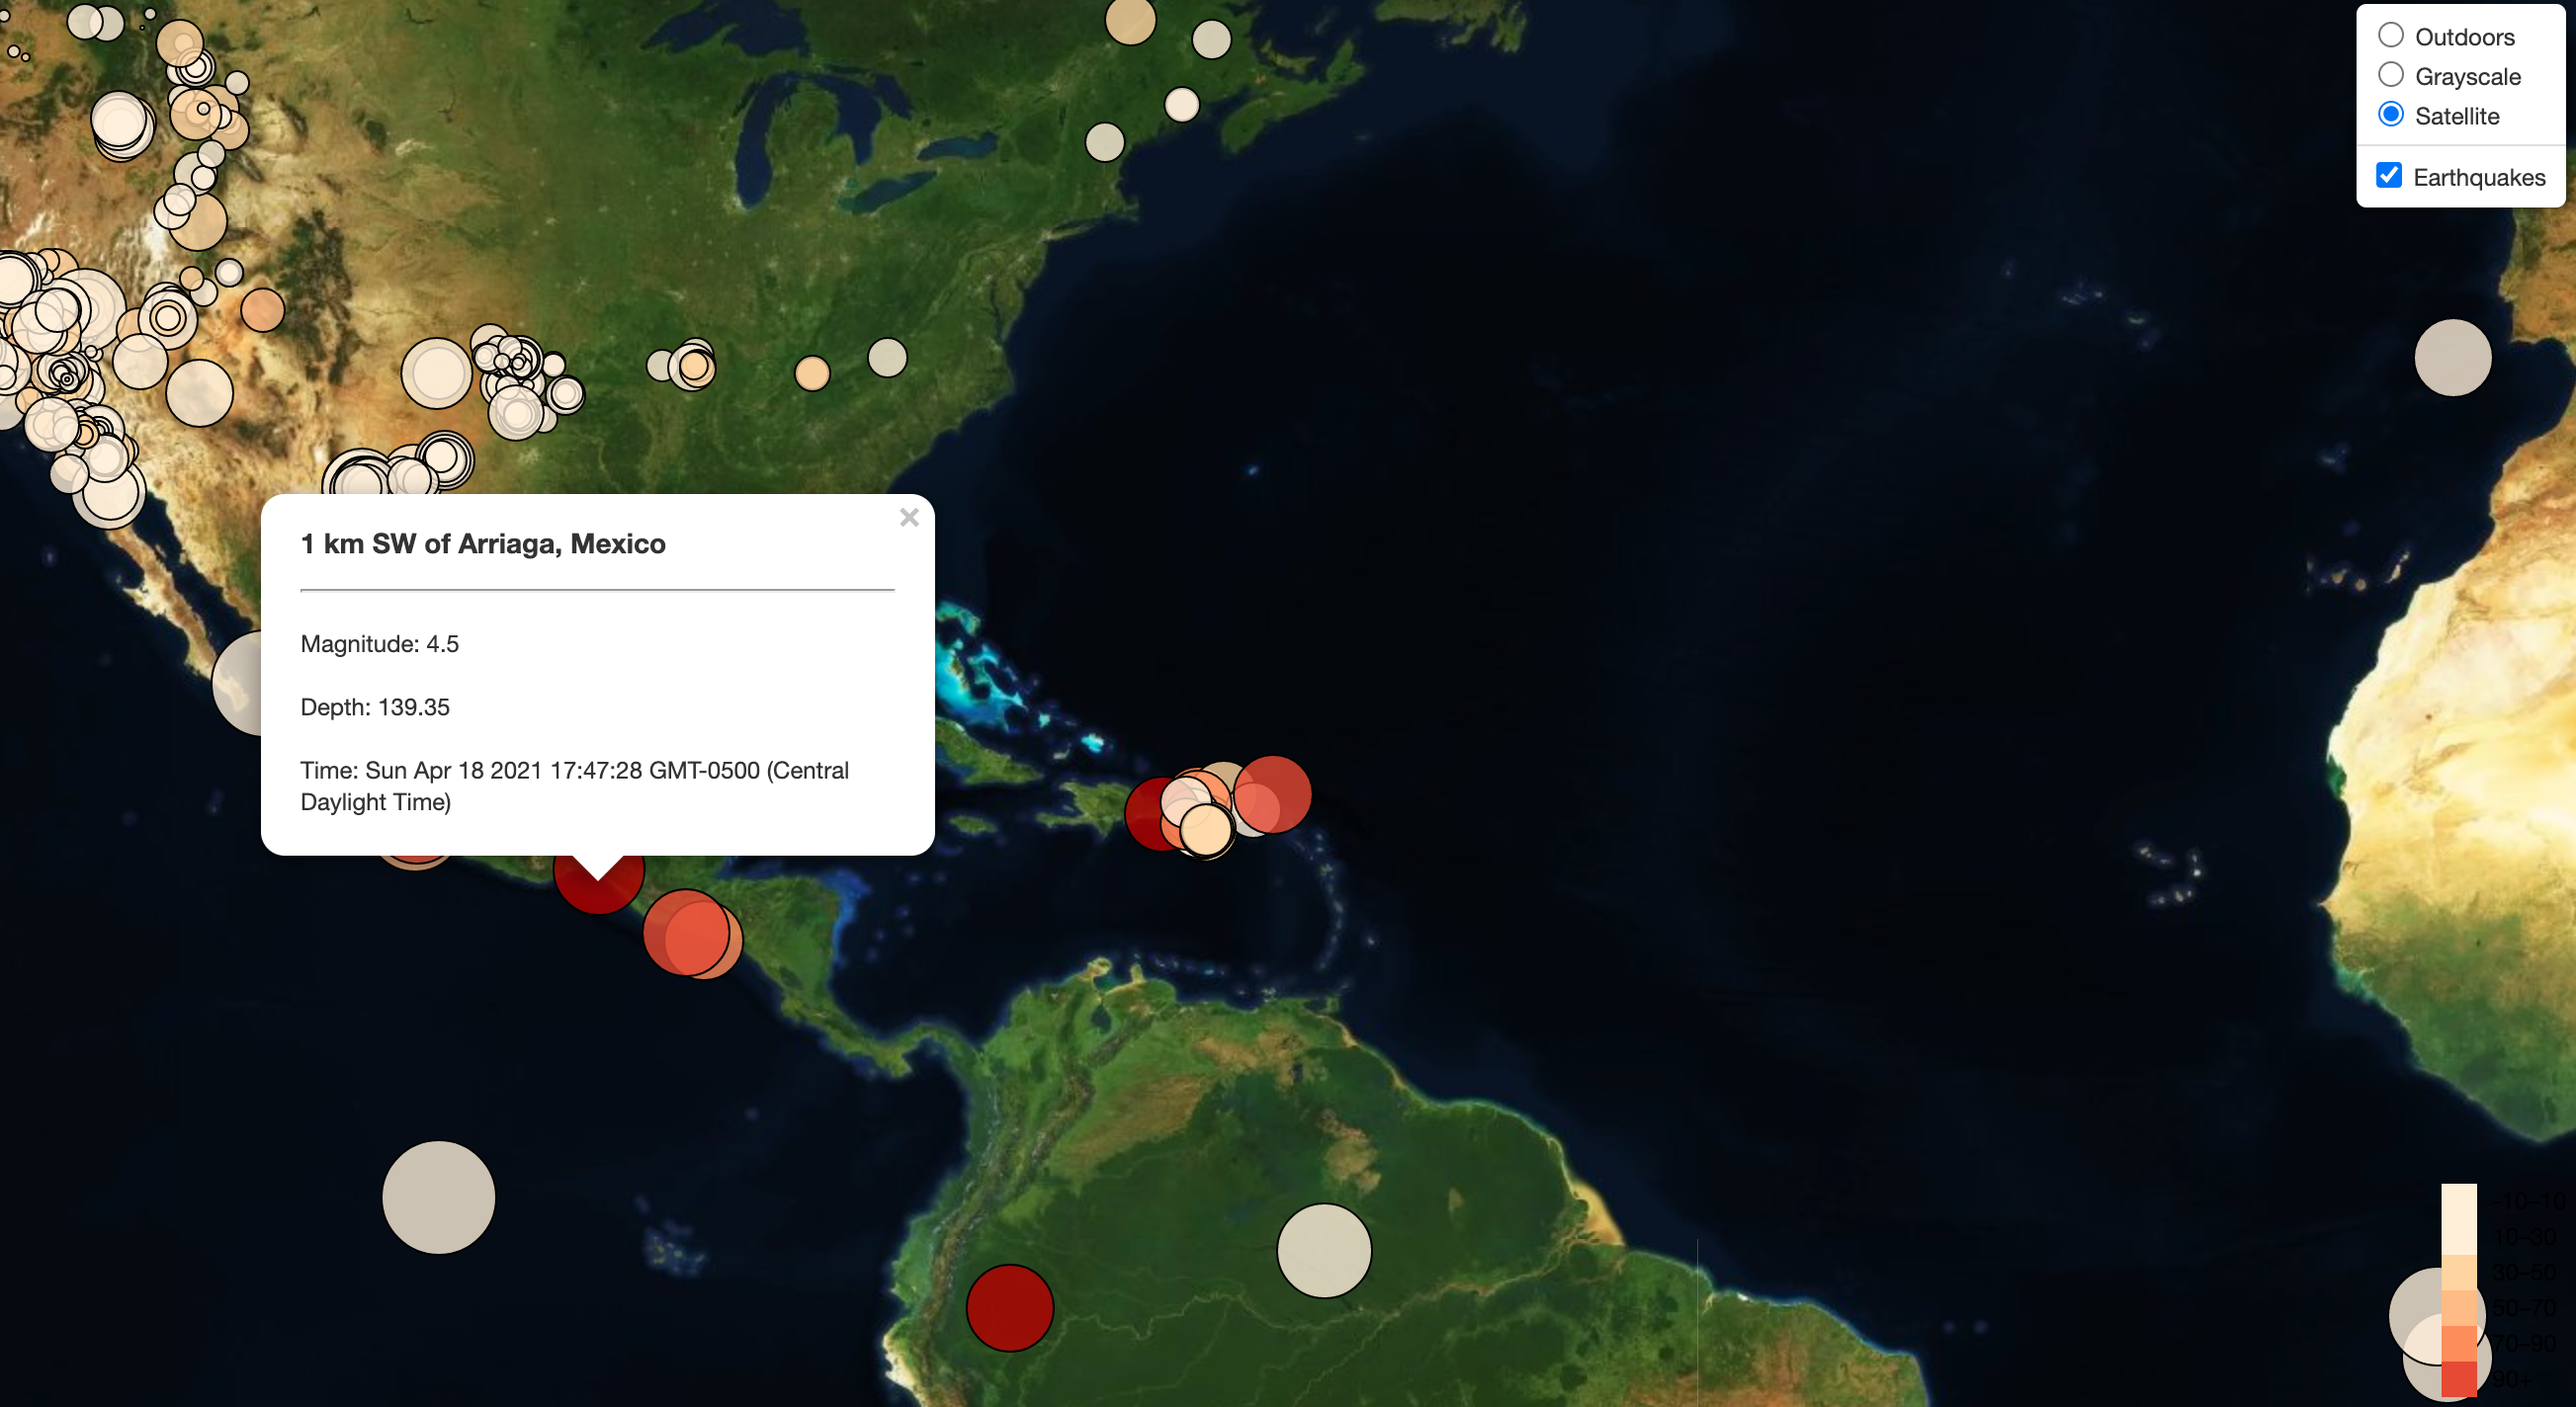
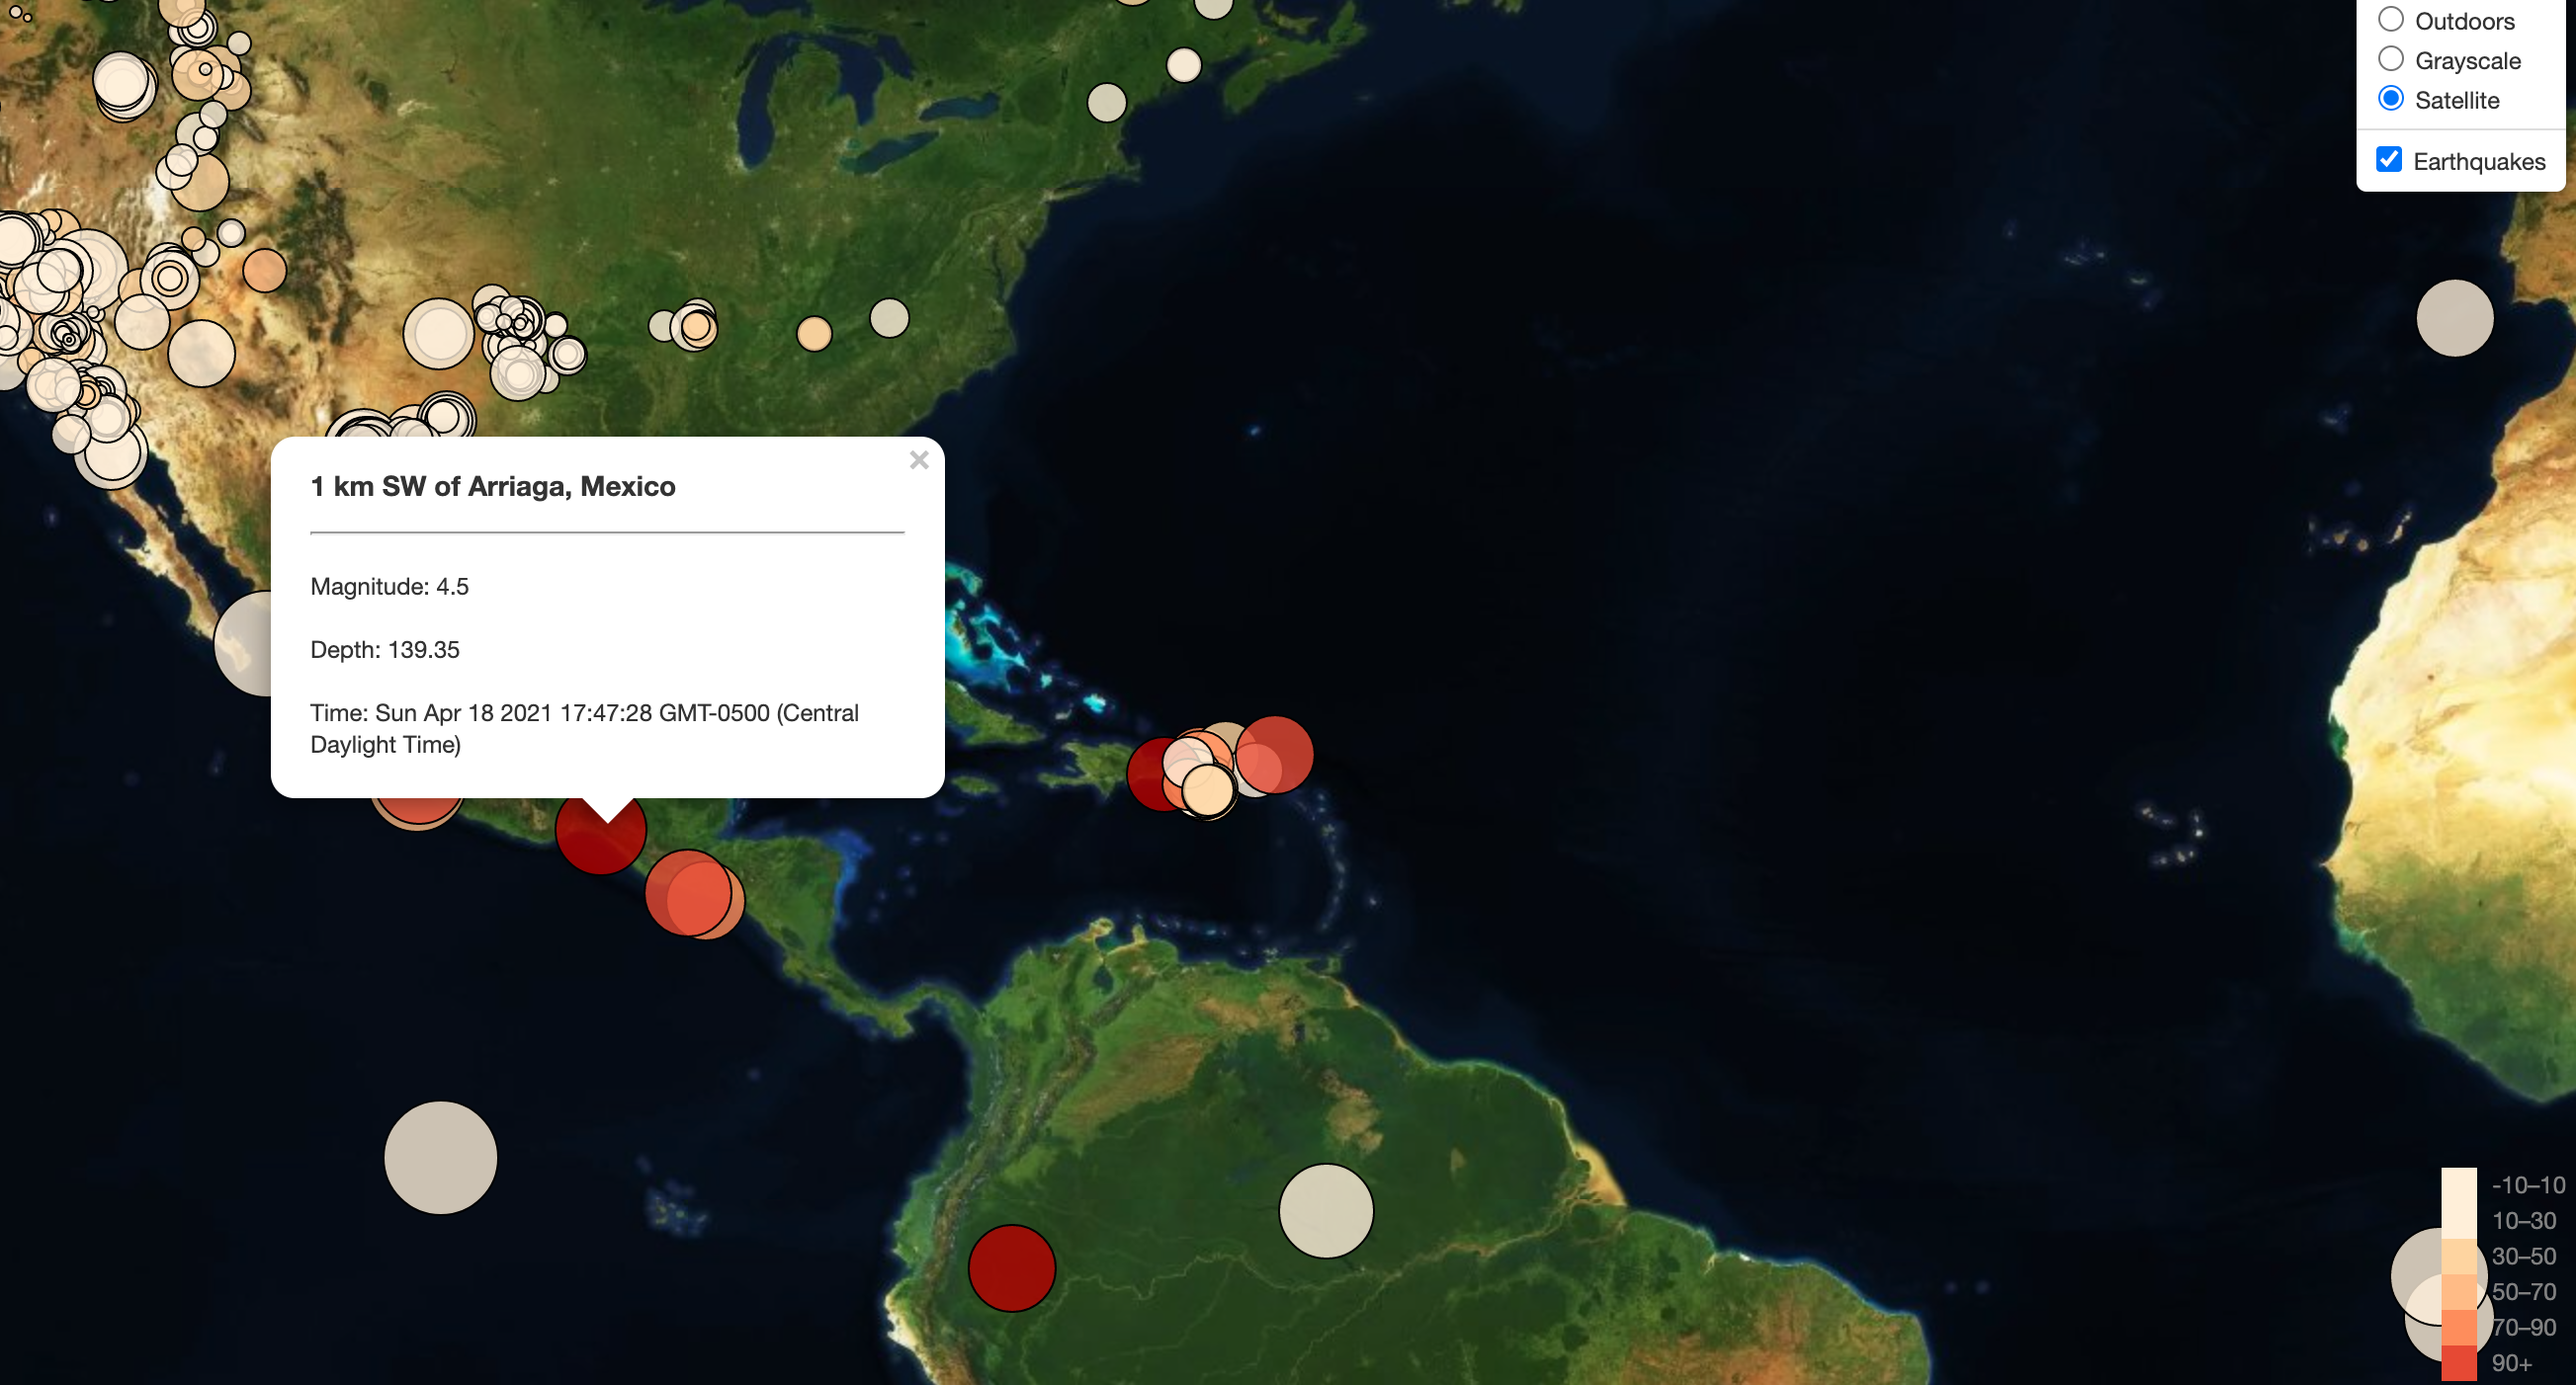
readme

diff --git a/static/css/style.css b/static/css/style.css
@@ -12,6 +12,7 @@ html {
 
 .legend {
   line-height: 18px;
+  color: grey;
 }
 .legend i {
   width: 18px;

diff --git a/README.md b/README.md
@@ -5,8 +5,11 @@ A webpage for visualizing earthquake geoJSON data obtained from US Geological Su
 ## Summary 
 This visualization turns illegible geoJSON data into an interactive visualization.
 
-GeoJSON: 
-{"type":"FeatureCollection","metadata":{"generated":1619824149000,"url":"https://earthquake.usgs.gov/earthquakes/feed/v1.0/summary/all_month.geojson","title":"USGS All Earthquakes, Past Month","status":200,"api":"1.10.3","count":2617},"features":[{"type":"Feature","properties":{"mag":1.3,"place":"30 km SW of Hawthorne, Nevada","time":1619821705199,"updated":1619821956047,"tz":null,"url":"https://earthquake.usgs.gov/earthquakes/eventpage/nn00806231","detail":"https://earthquake.usgs.gov/earthquakes/feed/v1.0/detail/nn00806231.geojson","felt":null,"cdi":null,"mmi":null,"alert":null,"status":"automatic","tsunami":0,"sig":26,"net":"nn","code":"00806231","ids":",nn00806231,","sources":",nn,","types":",origin,phase-data,","nst":10,"dmin":0.34,"rms":0.29,"gap":174.44,"magType":"ml","type":"earthquake","title":"M 1.3 - 30 km SW of Hawthorne, Nevada"},"geometry":{"type":"Point","coordinates":[-118.9105,38.3699,0.7]},"id":"nn00806231"},
+Raw geoJSON: 
+`{"type":"FeatureCollection",
+"metadata":
+    {"generated":1619824149000,"url":"https://earthquake.usgs.gov/earthquakes/feed/v1.0/summary/all_month.geojson","title":"USGS All Earthquakes, Past Month","status":200,"api":"1.10.3","count":2617},
+    "features":[{"type":"Feature","properties":{"mag":1.3,"place":"30 km SW of Hawthorne, Nevada","time":1619821705199,...}`
 
 ## Visualization 
 ![image](images/overall.png)
